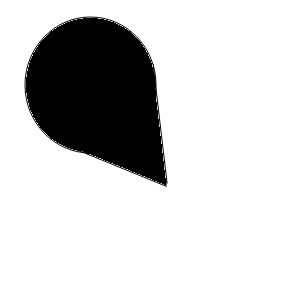
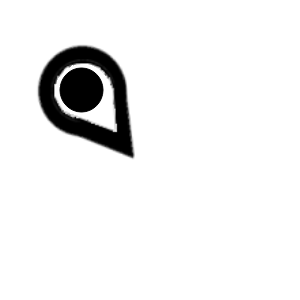
Working on map rendering

Changed region(s): [[0.06, 0.03, 0.57, 0.63]]

diff --git a/lib/map.dart b/lib/map.dart
@@ -449,12 +449,13 @@ Widget getLocation(GameLocation location) {
 // -----------------------------------------------------------------------------
 // Builds a single map tile: layered path segment images toward path-connected
 // neighbors, with the discovered/undiscovered/region-exit icon on top.
-// Locations without a path render as an empty field (reserved for future
-// decoration art).
+// Locations without a path render a plain background decoration instead.
 // -----------------------------------------------------------------------------
 Widget getLocationTile(GameLocation location) {
   if (!location.path) {
-    return getEmptyField();
+//    return getEmptyField();
+
+    return getMapPathTile([GameImageAsset.map_tile_bg_trees]);
   }
   List<GameImageAsset> pathImages = getPathSegmentImages(location);
   return getMapPathTile(pathImages);
@@ -570,10 +571,18 @@ class _MapTileState extends State<_MapTile> {
     });
   }
 
+  // Reference size matching the tile art's native pixel dimensions. This
+  // grid sits inside a FittedBox that measures it at these unconstrained,
+  // intrinsic dimensions and then scales the whole thing to fit - so this
+  // needs a definite size rather than AspectRatio, which reports an
+  // intrinsic width of 0 under the unbounded height a FittedBox provides.
+  static const double _tileNativeSize = 300;
+
   @override
   Widget build(BuildContext context) {
-    return AspectRatio(
-      aspectRatio: 1,
+    return SizedBox(
+      width: _tileNativeSize,
+      height: _tileNativeSize,
       child: CustomPaint(
         painter: _images == null ? null : _MapTilePainter(_images!),
       ),

diff --git a/lib/models/location.dart b/lib/models/location.dart
@@ -263,13 +263,17 @@ class LocationFactory {
 
   static GameLocation create(int index) {
     String name = NameHandler.fantasyNames.compose(3);
-
+/*
     final weights = <GameLocationType, num>{
       GameLocationType.empty: 5,
       GameLocationType.village: 2
     };
     GameLocationType type = weightedRandom(weights, GameState().gameRandom);
-    return GameLocation(type, name, index);
+*/
+    // 1st generate map without actual POIs so we can put things
+    // like villages, castles etc. at the end of paths to avoid having
+    // many paths ending in an empty location
+    return GameLocation(GameLocationType.empty, name, index);
   }
 
   // ---------------------------------------------------------------------------
@@ -348,6 +352,17 @@ class RegionFactory {
       locations.add(location);
     }
     print("Created " + locations.length.toString() + " locations.");
+
+    // Now fill convert some of those location to non-empty ones
+    // - preferrably those at the end of a path
+    // - but also a few in between
+    // - the ones in between are either small hamlets, rarely villages,
+    //   ponds or dungeons
+    // - larger villages, castles, cities etc. should usually be at the end of a path
+
+    
+
+
     GameRegion region = GameRegion(name, locations, locations[startIndex]);
 
     // Then connect them with each other

diff --git a/lib/assets.dart b/lib/assets.dart
@@ -55,7 +55,13 @@ enum GameImageAsset {
 
   map_tile_region('map/tiles/region.png'),
 
+  // POI tiles
+
   map_tile_poi_village('map/tiles/poi_village.png'),
+  map_tile_poi_dungeon('map/tiles/poi_dungeon.png'),
+
+  // Background tiles (map background between path)
+  map_tile_bg_trees('map/tiles/bg_trees.png'),
 
   map_player_position('map/tiles/player_position.png'),
 
